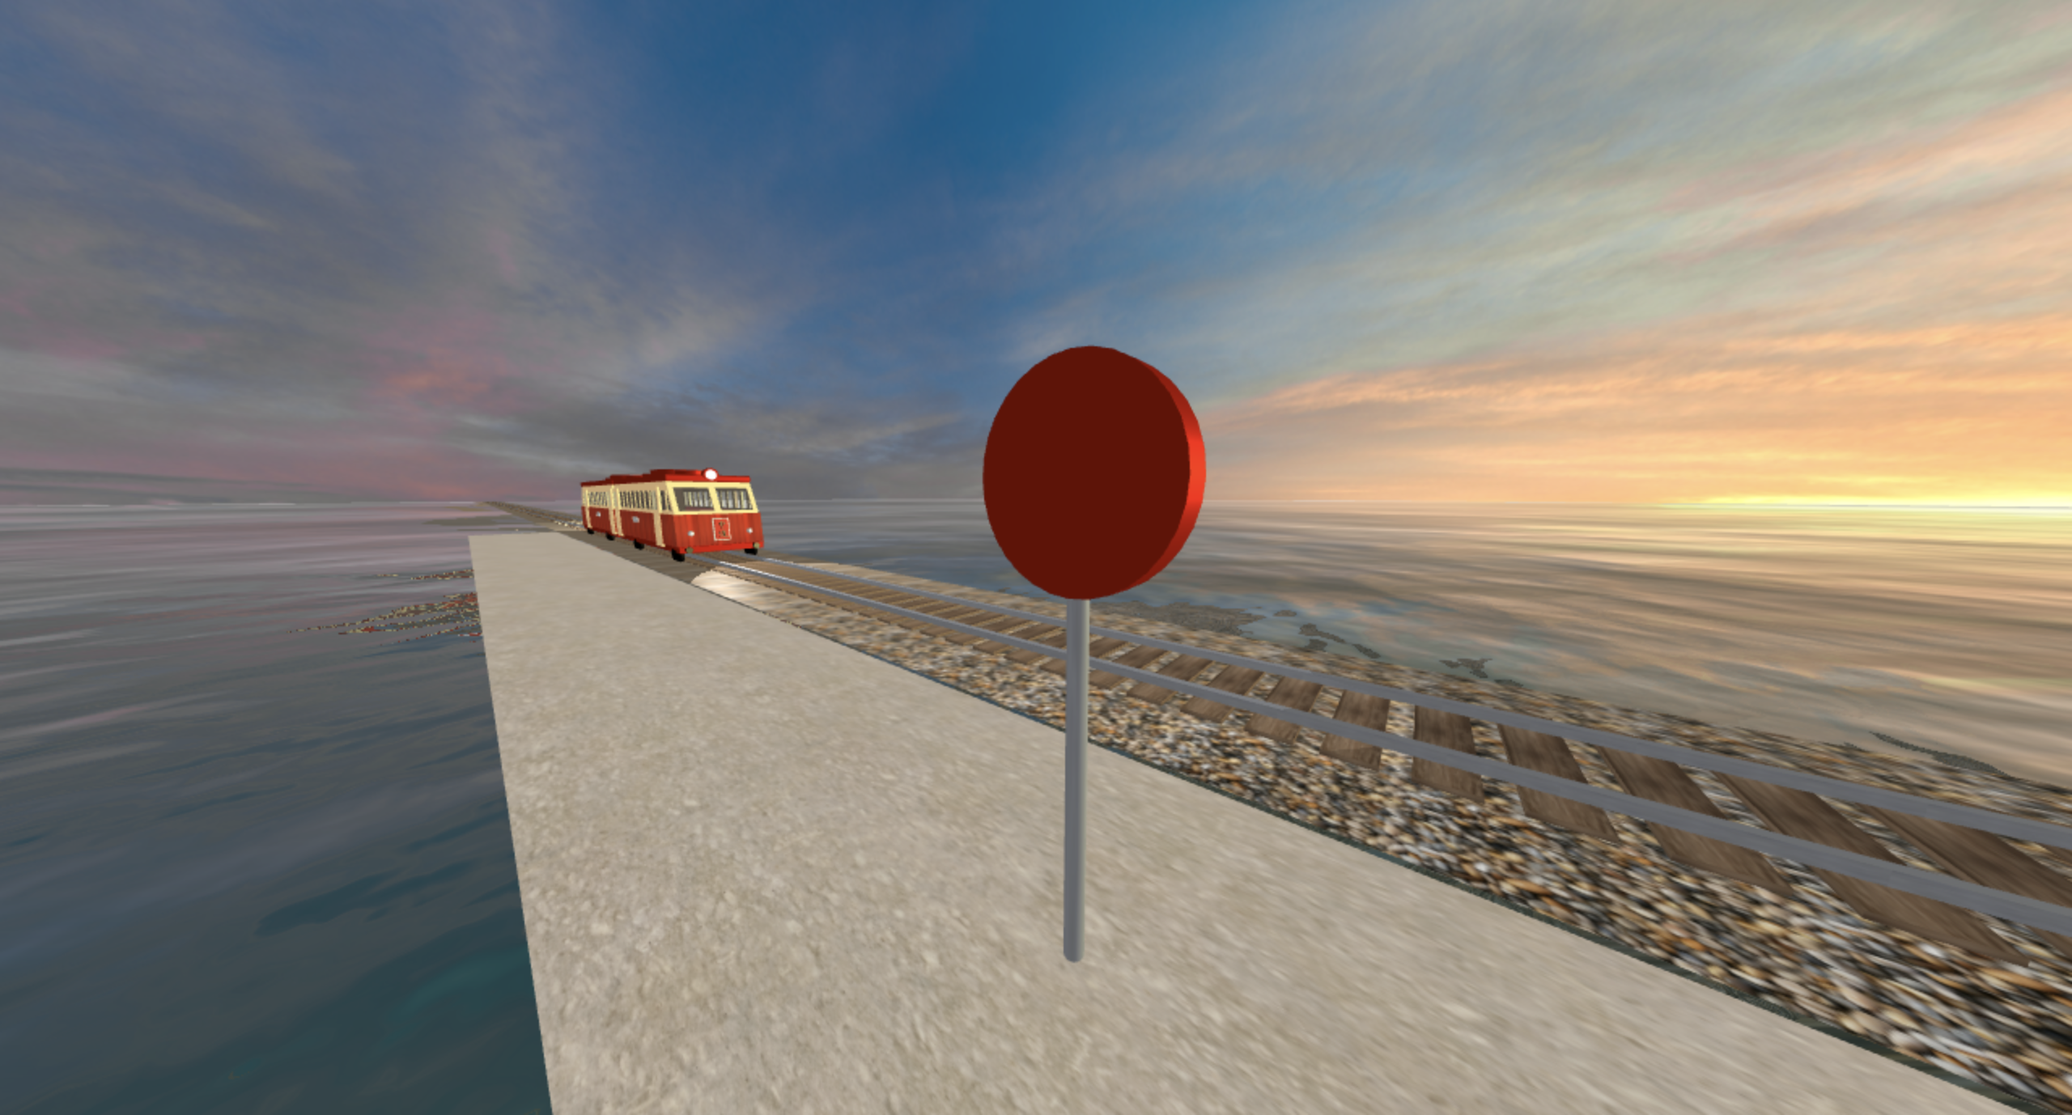
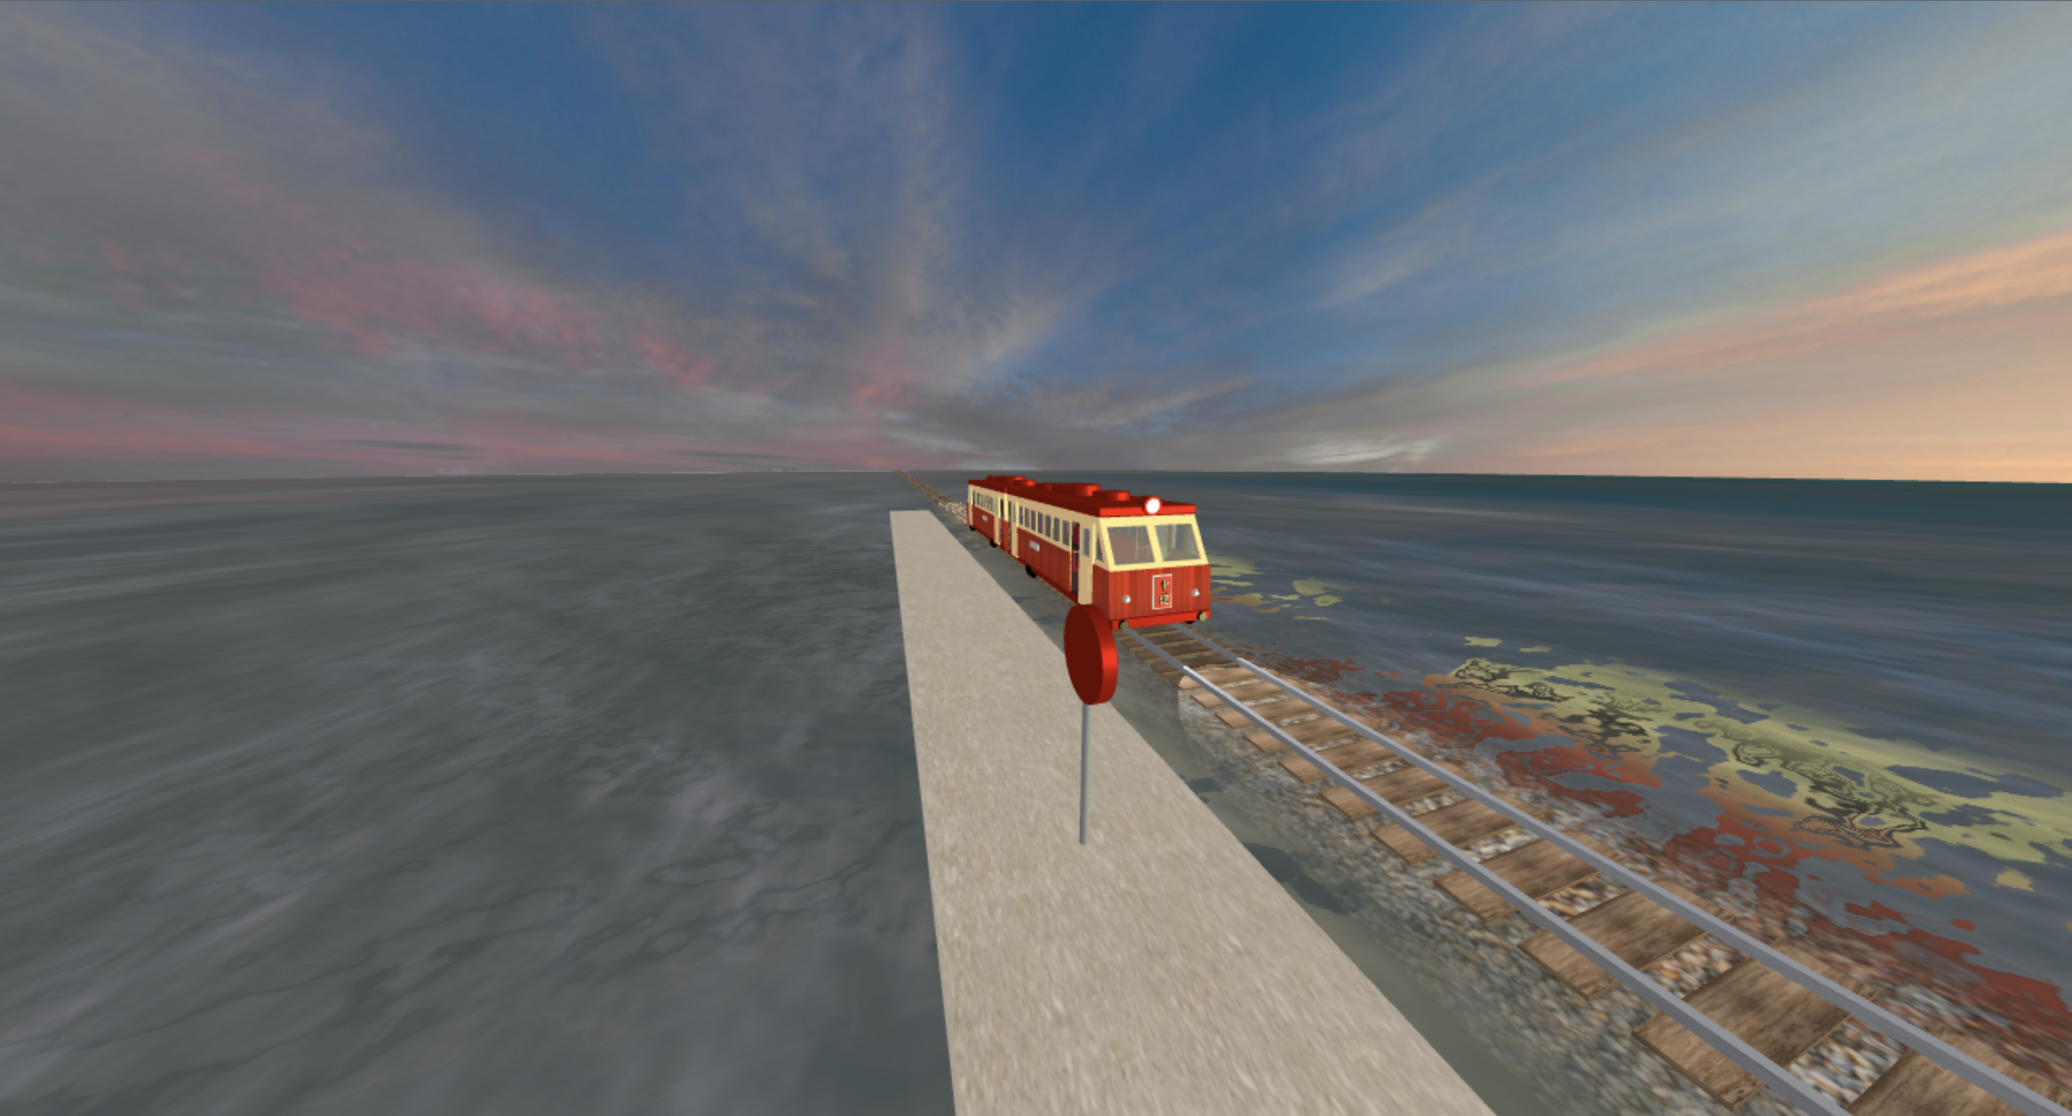
more keyboard controls

diff --git a/cs307-graphics-project-final/project.html b/cs307-graphics-project-final/project.html
@@ -60,26 +60,28 @@
                 insideTrain: false, // camera view should be inside train now
                 doorOpened: false, // keeps track of if the doors have opened in this cycle
                 doorClosing: false, // keeps track of if the doors are currently closing
+                step: false, // keeps track of whether we can step forward
+                stepsTaken: 0, // keeps track of how many steps have been taken
 
                 headlightsOn: false,
             };
 
             //camera parameters
-            var cameraParams = {
+            cameraParams = {
                     near: 1,
-                    far: params.groundDimension*2,
+                    far: params.groundDimension,
                     fov: 100,
                     aspectRatio: window.innerWidth/window.innerHeight,
                     atX: 0,
-                    atY: 5,
-                    atZ: 0,
+                    atY: 100,
+                    atZ: 100,
                     eyeX: 0,
-                    eyeY: 5,
-                    eyeZ: 40,
+                    eyeY: 30,
+                    eyeZ: 200,
                     upX: 0,
                     upY: 1,
                     upZ: 0
-                  };
+                };
 
             // setupCamera() function creates and returns a camera with the desired parameters
             function setupCamera() {
@@ -99,6 +101,7 @@
 
             //global variables
             let scene, camera, renderer, ambLight, dirLight, controls, train, water;
+            let headlight1, headlight2, lightbulb1, lightbulb2, lightbulb3, lightbulb4, lightbulb5, lightbulb6;
             let wheelList, w1, w2, w3, w4, w5, w6, w7, w8, w9, w10, w11, w12, w13, w14, w15, w16; // wheels need to be global to rotate
             let doorSetRight, doorSetLeft;
 
@@ -163,7 +166,7 @@
             var waterNormal;       
             TW.loadTextures(["materials/rock.jpg", "materials/concrete.jpg", "materials/wood.jpg", "materials/metal.jpg", "materials/waterNormal.jpeg", 
                             "materials/plank.jpg", "materials/velvet.jpg", "materials/floor.jpg", "materials/plank.jpg", "materials/plank.jpg", 
-                            "materials/sunset.png"],
+                            "materials/sunset.png", "materials/rock.jpg", "materials/rock.jpg", "materials/rock.jpg"],
                             
             function (textures) {
                 adjustTexture(textures[0], 250, 6, false, 0); // rock
@@ -175,9 +178,12 @@
                 adjustTexture(textures[7], 5, 2.5, false, 0); // flooring
                 adjustTexture(textures[8], 0.5, 0.3, false, Math.PI); // red planking rotated
                 adjustTexture(textures[9], 0.5, 0.3, false, Math.PI/2); // red planking rotated
+                adjustTexture(textures[11], 250, 4, false, 0); // rock 2nd layer
+                adjustTexture(textures[12], 250, 3, false, 0); // rock 3rd layer
+                adjustTexture(textures[13], 250, 1, false, 0); // rock 4th layer
                 
 
-                materials = [new THREE.MeshPhongMaterial({color: 0xffffff,  // 0 rock
+                materials = [new THREE.MeshPhongMaterial({color: 0xffffff,  // 0 rock for layer 1
                                                         map: textures[0]}),
                             new THREE.MeshPhongMaterial({color: 0xffffff,   // 1 concrete
                                                         map: textures[1]}),
@@ -205,9 +211,12 @@
                             new THREE.MeshPhongMaterial({color: 0xffffff,   // 10 interior wood
                                                         map: textures[10],
                                                         shininess: 0}),
-                            new THREE.MeshPhongMaterial({color: 0xffffff,   // 11 interior wood
-                                                        map: textures[11],
-                                                        shininess: 0}),
+                            new THREE.MeshPhongMaterial({color: 0xffffff,  // 11 rock for layer 2
+                                                        map: textures[11]}),
+                            new THREE.MeshPhongMaterial({color: 0xffffff,  // 12 rock for layer 3
+                                                        map: textures[12]}),
+                            new THREE.MeshPhongMaterial({color: 0xffffff,  // 13 rock for layer 4
+                                                        map: textures[13]}),
                             ];
 
                 colorMaterials = [new THREE.MeshPhongMaterial({color: new THREE.Color(0xfcce8e), // 0 beige
@@ -254,7 +263,10 @@
                 TW.setKeyboardCallback('a', showTrainSideView, "train side view", false);
                 TW.setKeyboardCallback('s', followTrainSideView, "follow train side view", false);
                 TW.setKeyboardCallback('d', showPlatformView, "at platform", false);
-                TW.setKeyboardCallback('f', showInsideTrain, "inside train", false);
+                TW.setKeyboardCallback('f', toggleLight, "turn light on and off", false);
+                TW.setKeyboardCallback('g', showInsideTrain, "inside train", false);
+                TW.setKeyboardCallback('h', stepForward, "inside train and step forward", false);
+                
             });
 
             // ====================================================================
@@ -281,12 +293,43 @@
 
                 // rock path
                 var path = new THREE.PlaneGeometry(params.groundDimension, params.groundDimension/100);
-
                 var pathMesh = new THREE.Mesh(path, materials[0]);
                 pathMesh.position.y = 0.01;
                 pathMesh.rotation.x = Math.PI/2;
                 pathMesh.material.side = THREE.DoubleSide;
+                pathMesh.material.transparent = true;
+                pathMesh.material.opacity = 0.1;
+                pathMesh.renderOrder = 1;
+                ground.add(pathMesh);
 
+                var path = new THREE.PlaneGeometry(params.groundDimension, params.groundDimension/120);
+                var pathMesh = new THREE.Mesh(path, materials[11]);
+                pathMesh.position.y = 0.011;
+                pathMesh.rotation.x = Math.PI/2;
+                pathMesh.material.side = THREE.DoubleSide;
+                pathMesh.material.transparent = true;
+                pathMesh.material.opacity = 0.2;
+                pathMesh.renderOrder = 2;
+                ground.add(pathMesh);
+
+                var path = new THREE.PlaneGeometry(params.groundDimension, params.groundDimension/150);
+                var pathMesh = new THREE.Mesh(path, materials[12]);
+                pathMesh.position.y = 0.012;
+                pathMesh.rotation.x = Math.PI/2;
+                pathMesh.material.side = THREE.DoubleSide;
+                pathMesh.material.transparent = true;
+                pathMesh.material.opacity = 0.25;
+                pathMesh.renderOrder = 3;
+                ground.add(pathMesh);
+
+                var path = new THREE.PlaneGeometry(params.groundDimension, params.groundDimension/400);
+                var pathMesh = new THREE.Mesh(path, materials[13]);
+                pathMesh.position.y = 0.013;
+                pathMesh.rotation.x = Math.PI/2;
+                pathMesh.material.side = THREE.DoubleSide;
+                pathMesh.material.transparent = true;
+                pathMesh.material.opacity = 0.4;
+                pathMesh.renderOrder = 4;
                 ground.add(pathMesh);
 
                 // train tracks
@@ -802,6 +845,7 @@
                 var windowInsideGeom = makeTrainCarGeomUpperBevel(width-0.11, height+0.05, depth-0.11, 0, -0.04, 0);
                 windowGeom = windowGeom.subtract(windowInsideGeom); // remove inside of glass prism
                 var window = makeMesh(windowGeom, colorMaterials[3]);
+                colorMaterials[3].depthWrite = false; // render everything "behind" glass in view
                 car.add(window);
 
                 // wood
@@ -813,12 +857,7 @@
                 var spotlight = makeSpotlight(.45, colorMaterials[4], 1);
                 spotlight.rotation.z = TW.degrees2radians(-4);
                 spotlight.position.set(width-0.25, height*1.06, 0);
-                var light = new THREE.SpotLight(0xffffff, 1, 0, TW.degrees2radians(20), 0, 1);
-                light.position.set(width, height*1.06, 0);
-                light.target.position.set(30, 0, 0);
                 car.add(spotlight);
-                car.add(light);
-                car.add(light.target);
 
                 // add flooring to car
                 var floor = makeFloor(width*1.08, depth);
@@ -910,8 +949,46 @@
                 
                 // add black connector in the middle
                 var connector = addConnector();
-
                 train.add(connector);
+
+                // add headlight lights
+                headlight1 = new THREE.SpotLight(0xffffff, 1, 0, TW.degrees2radians(20), 0, 1);
+                headlight1.position.set(params.width+space, params.height*1.06, 0);
+                headlight1.target.position.set(30, 0, 0);
+                train.add(headlight1);
+                train.add(headlight1.target);
+                headlight1.visible = false;
+                    
+                headlight2 = new THREE.SpotLight(0xffffff, 1, 0, TW.degrees2radians(20), 0, 1);
+                headlight2.position.set(-(params.width+space), params.height*1.06, 0);
+                headlight2.target.position.set(-30, 0, 0);
+                train.add(headlight2);
+                train.add(headlight2.target);
+                headlight2.visible = false;
+
+                var sphereGeom = new THREE.SphereGeometry(.46, 32, 16 );
+                lightbulb1 = new THREE.Mesh(sphereGeom, colorMaterials[3]);
+                lightbulb1.position.set(params.width + space + 0.25, params.height*1.06 + .42, 0);
+                train.add(lightbulb1);
+
+                lightbulb2 = new THREE.Mesh(sphereGeom, colorMaterials[3]);
+                lightbulb2.position.set(-(params.width + space + 0.25), params.height*1.06 + .42, 0);
+                train.add(lightbulb2);
+
+                // mini lights
+                var sphereGeom = new THREE.SphereGeometry(params.height/50, 32, 16 );
+                lightbulb3 = new THREE.Mesh(sphereGeom, colorMaterials[3]);
+                lightbulb3.position.set(params.width*1.1+space-0.1, params.height/5, -params.depth*0.35);
+                train.add(lightbulb3);
+                lightbulb4 = new THREE.Mesh(sphereGeom, colorMaterials[3]);
+                lightbulb4.position.set(params.width*1.1+space-0.1, params.height/5, params.depth*0.35);
+                train.add(lightbulb4);
+                lightbulb5 = new THREE.Mesh(sphereGeom, colorMaterials[3]);
+                lightbulb5.position.set(-(params.width*1.1+space)+0.1, params.height/5, -params.depth*0.35);
+                train.add(lightbulb5);
+                lightbulb6 = new THREE.Mesh(sphereGeom, colorMaterials[3]);
+                lightbulb6.position.set(-(params.width*1.1+space)+0.1, params.height/5, params.depth*0.35);
+                train.add(lightbulb6);
 
                 return train;
             }
@@ -981,15 +1058,6 @@
                 cylMesh.rotation.z = Math.PI/2;
                 cylMesh.position.set(-width*0.01, height/5, depth*0.35);
                 decor.add(cylMesh);
-
-                // light bulbs
-                var sphereGeom = new THREE.SphereGeometry(height/50, 32, 16 );
-                var sphereMesh = new THREE.Mesh(sphereGeom, colorMaterials[1]);
-                sphereMesh.position.set(-0.1, height/5, -depth*0.35);
-                decor.add(sphereMesh);
-                var sphereMesh = new THREE.Mesh(sphereGeom, colorMaterials[1]);
-                sphereMesh.position.set(-0.1, height/5, depth*0.35);
-                decor.add(sphereMesh);
 
                 // metal side panels
                 var boxGeom = createBoxWithRoundedEdges( width/10, height/10, 0.1, 1 / 9, 5 );
@@ -1198,14 +1266,6 @@
                 sphereMesh.position.x = -radius/2;
                 spotlight.add(sphereMesh);
 
-                // make light bulb
-                var sphereGeom = new THREE.SphereGeometry(radius, 32, 16 );
-                var sphereMesh = new THREE.Mesh(sphereGeom, colorMaterials[1]);
-
-                sphereMesh.position.x = side * 0.5;
-                sphereMesh.position.y = radius;
-                spotlight.add(sphereMesh);
-
                 return spotlight;
             }
 
@@ -1264,10 +1324,10 @@
                 connector.add(boxMesh);
 
                 // brown inner
-                var boxGeom = new THREE.BoxGeometry(width + 0.4, height, depth*0.7);
+                var boxGeom = new THREE.BoxGeometry(width + 0.3, height, depth*0.7);
                 boxGeom.translate(0, height/2, 0);
                 var bsp_boxGeom = new ThreeBSP(boxGeom);
-                bsp_boxGeom = addInnerDoorHole(bsp_boxGeom, width + 0.4, height-0.015, depth, 0.45);
+                bsp_boxGeom = addInnerDoorHole(bsp_boxGeom, width + 0.3, height-0.015, depth*1.07, 0.45);
                 var boxMesh = makeMesh(bsp_boxGeom, colorMaterials[5]);
 
                 connector.add(boxMesh);
@@ -1293,7 +1353,23 @@
             // thank you to jbouney for this beautiful water that is compatible with our version of THREE.js!
             // @https://github.com/jbouny/ocean
             function addWater() {
-                water = new THREE.Water(renderer, camera, scene, {
+                cameraParams = {
+                    near: 1,
+                    far: params.groundDimension,
+                    fov: 100,
+                    aspectRatio: window.innerWidth/window.innerHeight,
+                    atX: 0,
+                    atY: 100,
+                    atZ: 50,
+                    eyeX: 0,
+                    eyeY: 200,
+                    eyeZ: params.groundDimension/2,
+                    upX: 0,
+                    upY: 1,
+                    upZ: 0
+                };
+                waterCamera = setupCamera();
+                water = new THREE.Water(renderer, waterCamera, scene, {
                     textureWidth: 512, 
                     textureHeight: 712,
                     waterNormals: waterNormal,
@@ -1419,6 +1495,7 @@
             //updates the camera parameters to show the train from the inside
             function showInsideTrain() {
                 params.insideTrain = true;
+                params.stepsTaken = 0;
                 cameraParams = {
                     near: 1,
                     far: params.groundDimension,
@@ -1427,7 +1504,7 @@
                     atX: params.groundDimension,
                     atY: 5,
                     atZ: 0,
-                    eyeX: train.position.x,
+                    eyeX: train.position.x - params.width,
                     eyeY: 4.5,
                     eyeZ: 0,
                     upX: 0,
@@ -1437,6 +1514,41 @@
                 camera = setupCamera();
             }
             
+            // allows user to step forward while inside the train
+            function stepForward() {
+                if (params.stepsTaken < 39) {
+                    params.step = true;
+                    params.stepsTaken += 1
+                }
+            }
+
+            // turns headlights on and off, including light visibility toggling and changing material of light bulb
+            function toggleLight() {
+                if (params.headlightsOn) {
+                    headlight1.visible = false;
+                    headlight2.visible = false;
+                    lightbulb1.material = colorMaterials[3];
+                    lightbulb2.material = colorMaterials[3];
+                    lightbulb3.material = colorMaterials[3];
+                    lightbulb4.material = colorMaterials[3];
+                    lightbulb5.material = colorMaterials[3];
+                    lightbulb6.material = colorMaterials[3];
+                    params.headlightsOn = false;
+                }
+                else {
+                    headlight1.visible = true;
+                    headlight2.visible = true;
+                    lightbulb1.material = colorMaterials[1];
+                    lightbulb2.material = colorMaterials[1];
+                    lightbulb3.material = colorMaterials[1];
+                    lightbulb4.material = colorMaterials[1];
+                    lightbulb5.material = colorMaterials[1];
+                    lightbulb6.material = colorMaterials[1];
+                    params.headlightsOn = true;
+                }
+                
+            }
+
             // ====================================================================
             // animation 
 
@@ -1498,7 +1610,13 @@
                 if (params.moving) {
                     //update the camera position if the view is inside the train
                     if (params.insideTrain) {
-                        camera.position.x += animationState.vx;
+                        if (params.step) {
+                            camera.position.x += animationState.vx + 1;
+                            params.step = false;
+                        }
+                        else {
+                            camera.position.x += animationState.vx;
+                        }
                     }
 
                     // restart train at left end once the train reaches the end of the box
@@ -1509,7 +1627,8 @@
                         doorSetRight.position.x = params.space;
                         doorSetLeft.position.x = -params.space;
                         if (params.insideTrain) {
-                            camera.position.x = -params.groundDimension/2 + params.width*3;
+                            camera.position.x = -params.groundDimension/2 + params.width*2;
+                            params.stepsTaken = 0;
                         }
                     }
                     // pause train at the platform
@@ -1528,6 +1647,10 @@
                     }
                 } else {
                     doorAnimation();
+                    if (params.insideTrain && params.step) {
+                        camera.position.x += 1;
+                        params.step = false;
+                    }
                 }
             }
 

diff --git a/cs307-graphics-project-final/description.html b/cs307-graphics-project-final/description.html
@@ -35,16 +35,19 @@
             In particular, the train is a fairly complex object in our scene since we used a Three CSG (constructive solid geometry) library to transform and merge multiple geometries, which gave us wonderful features like windows that are actually cut out of the train.
 
             <br><br>
+            In the inspiration images, the rock path can be seen clearly in shallow water but the texture slowly tapers off in the distance. To mimic this effect and create a similar illusion of depth, we layered multiple texture-mapped transparent planes with increasing levels of opacity, the narrowest one in the center down to the widest one which can be seen at either edge. This layering technique gave us the desired tapering effect, especially with the blurring from the moving water underneath.
+
+            <br><br>
             The animation of the train has also been implemented so that it slows down, stops at the platform, the doors proceed to open and close, and then slowly moves again. This is repeated in a continuous cycle. 
 
             <br><br>
-            Users can change the camera perspective by pressing the 'a' key to view the train from the side, the 's' key to follow the train as it moves, the 'd' key to stand at the platform, and the 'f' key to sit inside the train. 
+            Users can change the camera perspective by pressing the 'a' key to view the train from the side, the 's' key to follow the train as it moves, the 'd' key to stand at the platform, the 'f' key to turn the headlights on and off, the 'g' key to stand inside the train, and the 'h' key to step forward while inside the train. 
 
             <br><br>
             Another fantastic feature is the audio (the famous score from <i>Spirited Away</i>) that plays immediately upon loading the page.
         </p>
 
-        <h2><a href = "demo.html">Click here for Demo</a></h2>
+        <h2><a href = "project.html">Click here for Demo</a></h2>
 
         <h2>Inspiration</h2>
         <div class = "images">
